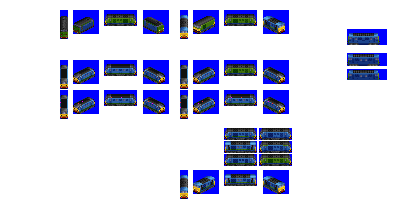
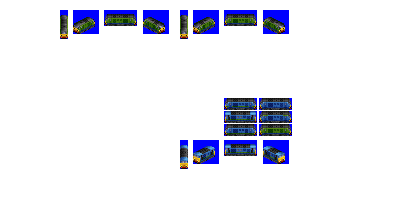
Change: sprites complete for Turtle

diff --git a/src/vehicles/turtle.py b/src/vehicles/turtle.py
@@ -6,7 +6,8 @@ consist = EngineConsist(id='turtle',
                         role='express_1',
                         power=3450,
                         random_reverse=True,
-                        gen=6)
+                        gen=6,
+                        sprites_complete=True)
 
 consist.add_unit(type=DieselEngineUnit,
                  weight=95,
